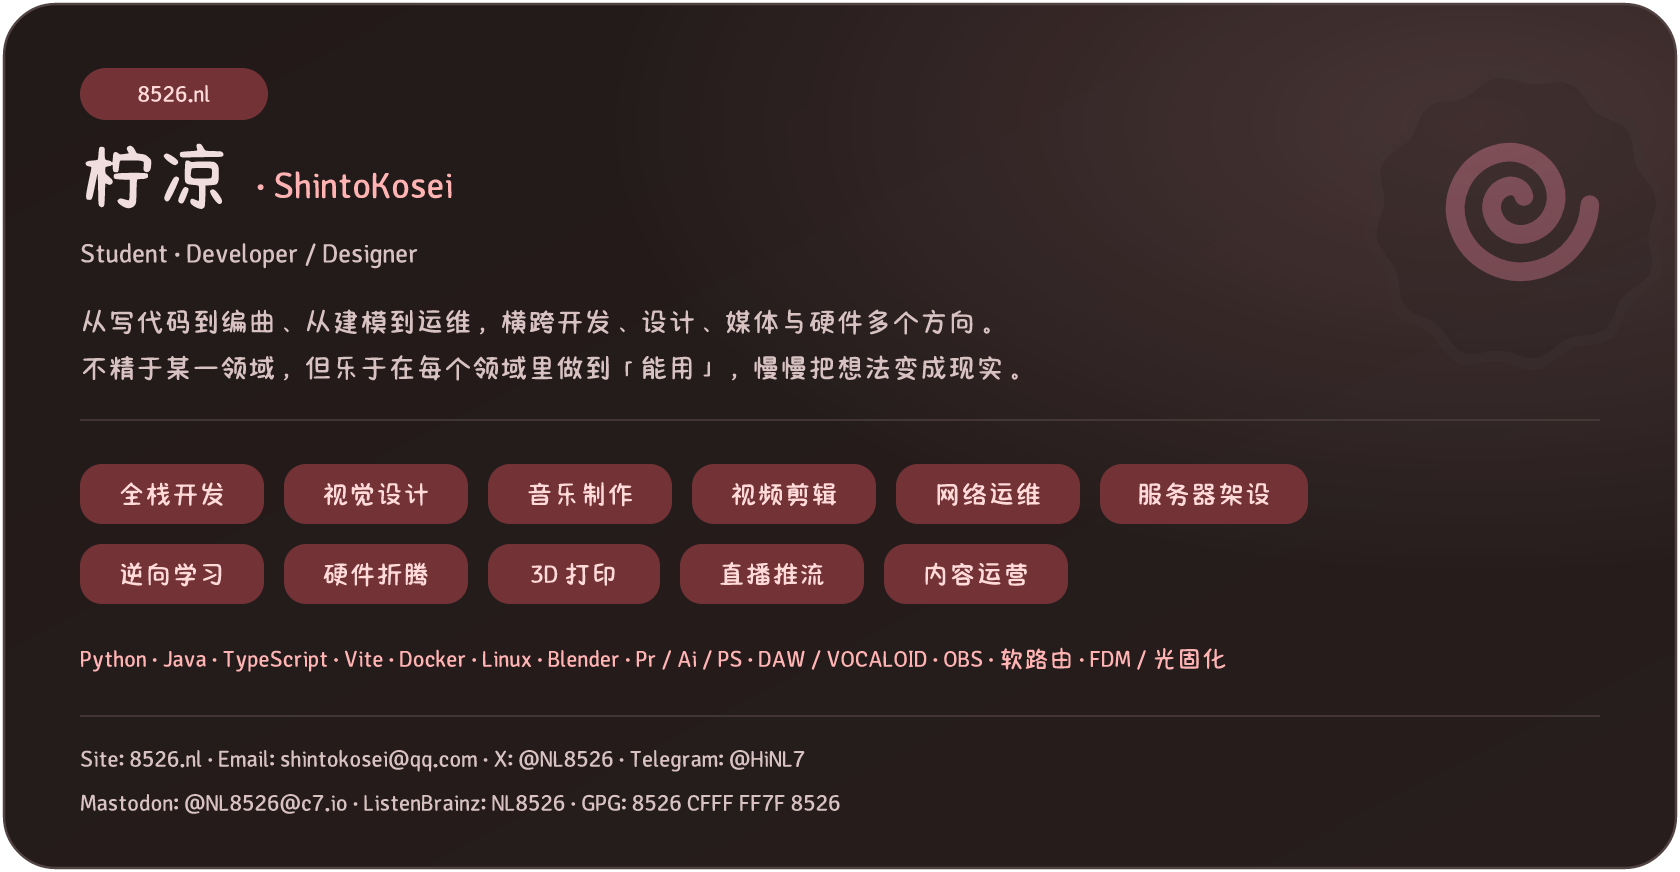
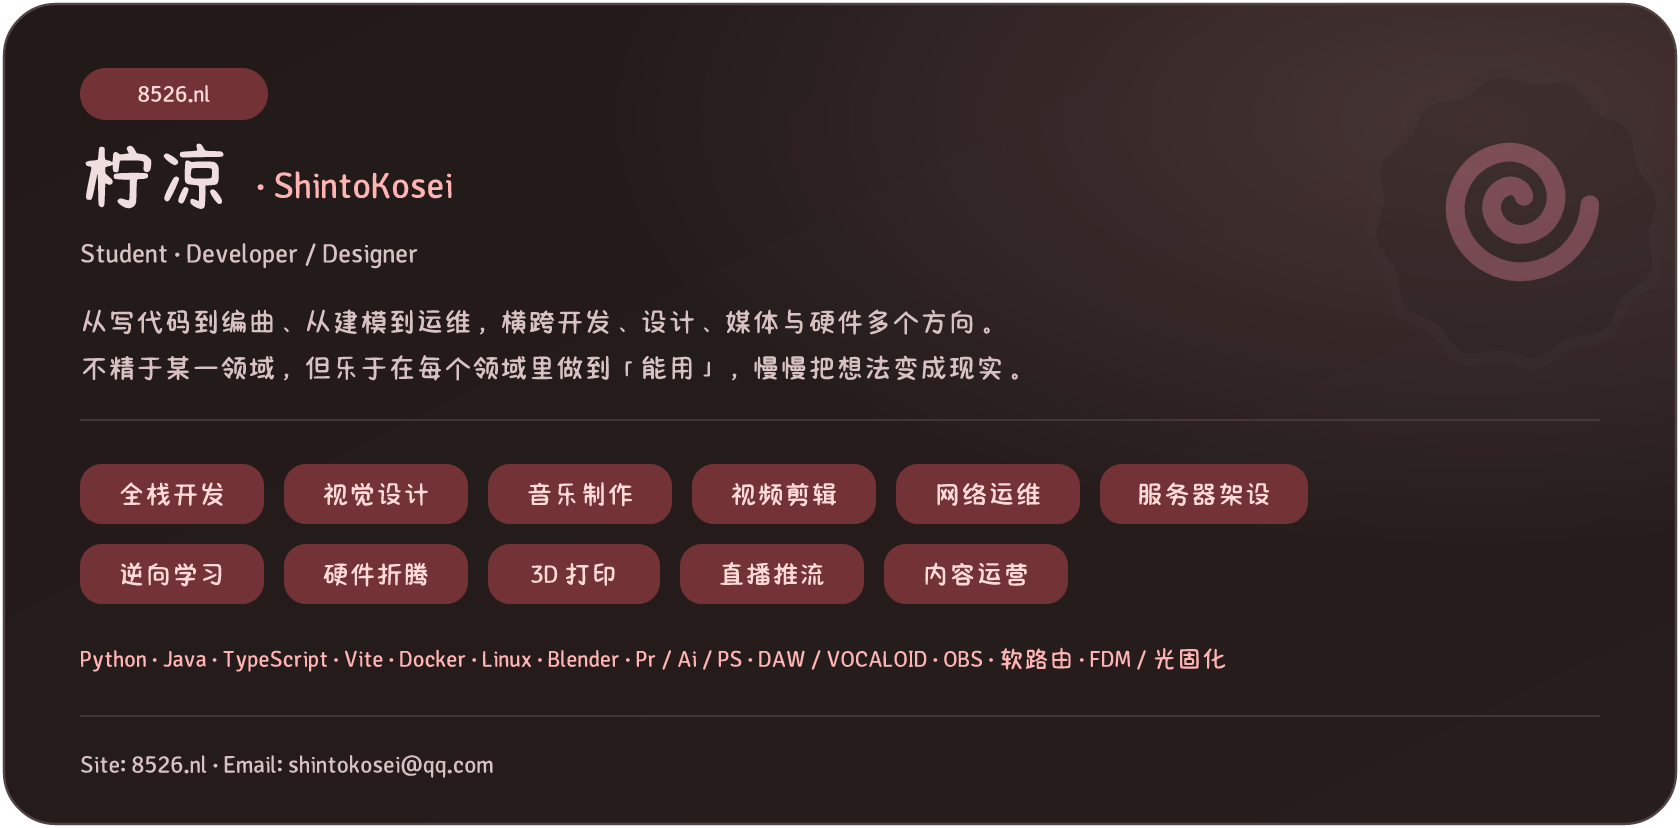
feat: add English profile card and trim contacts to website/email

diff --git a/README.md b/README.md
@@ -8,13 +8,10 @@
   </a>
   <br /><br />
   <sub>
-    <a href="https://8526.nl">8526.nl</a> ·
-    <a href="mailto:shintokosei@qq.com">Email</a> ·
-    <a href="https://x.com/NL8526">X</a> ·
-    <a href="https://t.me/HiNL7">Telegram</a> ·
-    <a href="https://discord.gg/NbVQ6DwT">Discord</a> ·
-    <a href="https://c7.io/@NL8526">Mastodon</a> ·
-    <a href="https://listenbrainz.org/user/NL8526">ListenBrainz</a> ·
-    <a href="https://8526.nl/gpg">GPG</a>
+    <strong>简体中文</strong> / <a href="./README.en.md">English</a>
+    &nbsp;·&nbsp;
+    <a href="https://8526.nl">8526.nl</a>
+    &nbsp;·&nbsp;
+    <a href="mailto:shintokosei@qq.com">Email</a>
   </sub>
 </div>

diff --git a/README.en.md b/README.en.md
@@ -1,0 +1,17 @@
+<div align="center">
+  <a href="https://8526.nl">
+    <picture>
+      <source media="(prefers-color-scheme: dark)" srcset="./assets/profile-en-dark.png" />
+      <source media="(prefers-color-scheme: light)" srcset="./assets/profile-en-light.png" />
+      <img alt="ShintoKosei · 柠凉 — 8526.nl" src="./assets/profile-en-light.png" width="100%" />
+    </picture>
+  </a>
+  <br /><br />
+  <sub>
+    <a href="./README.md">简体中文</a> / <strong>English</strong>
+    &nbsp;·&nbsp;
+    <a href="https://8526.nl">8526.nl</a>
+    &nbsp;·&nbsp;
+    <a href="mailto:shintokosei@qq.com">Email</a>
+  </sub>
+</div>
